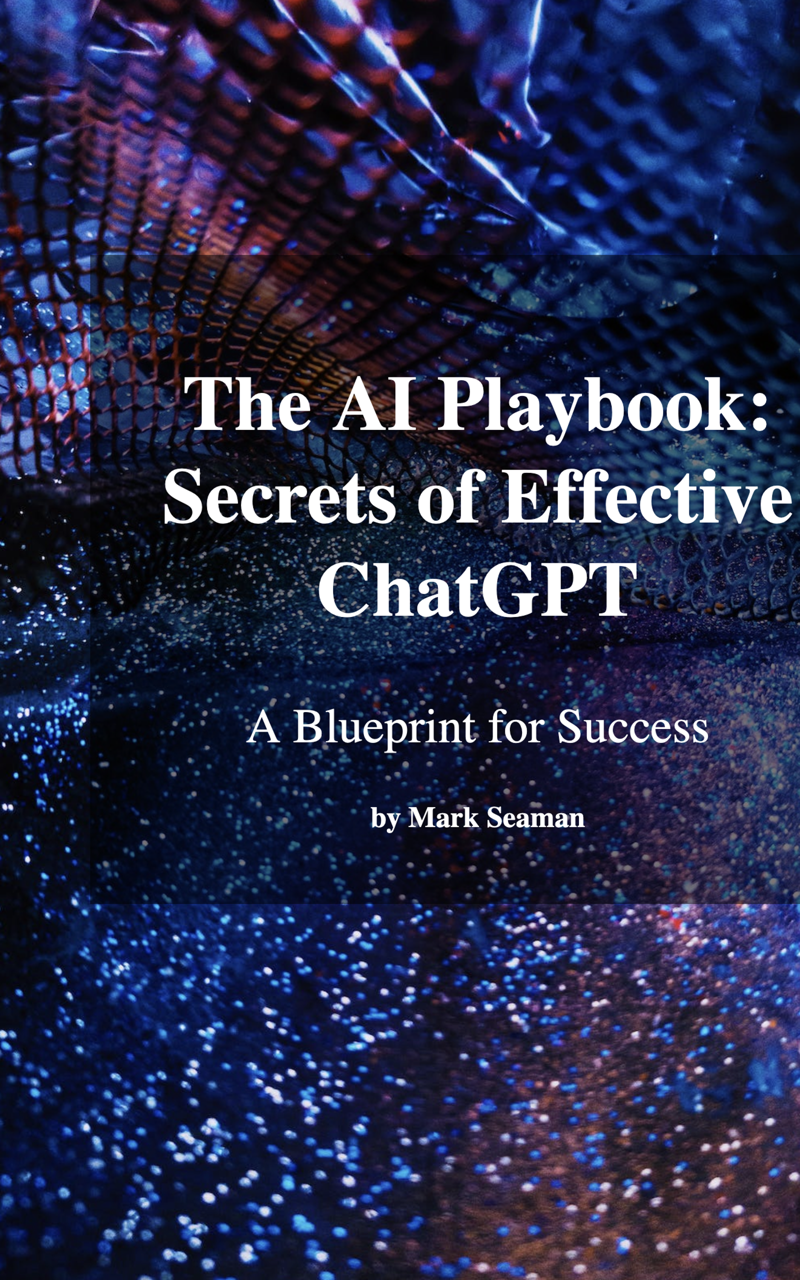
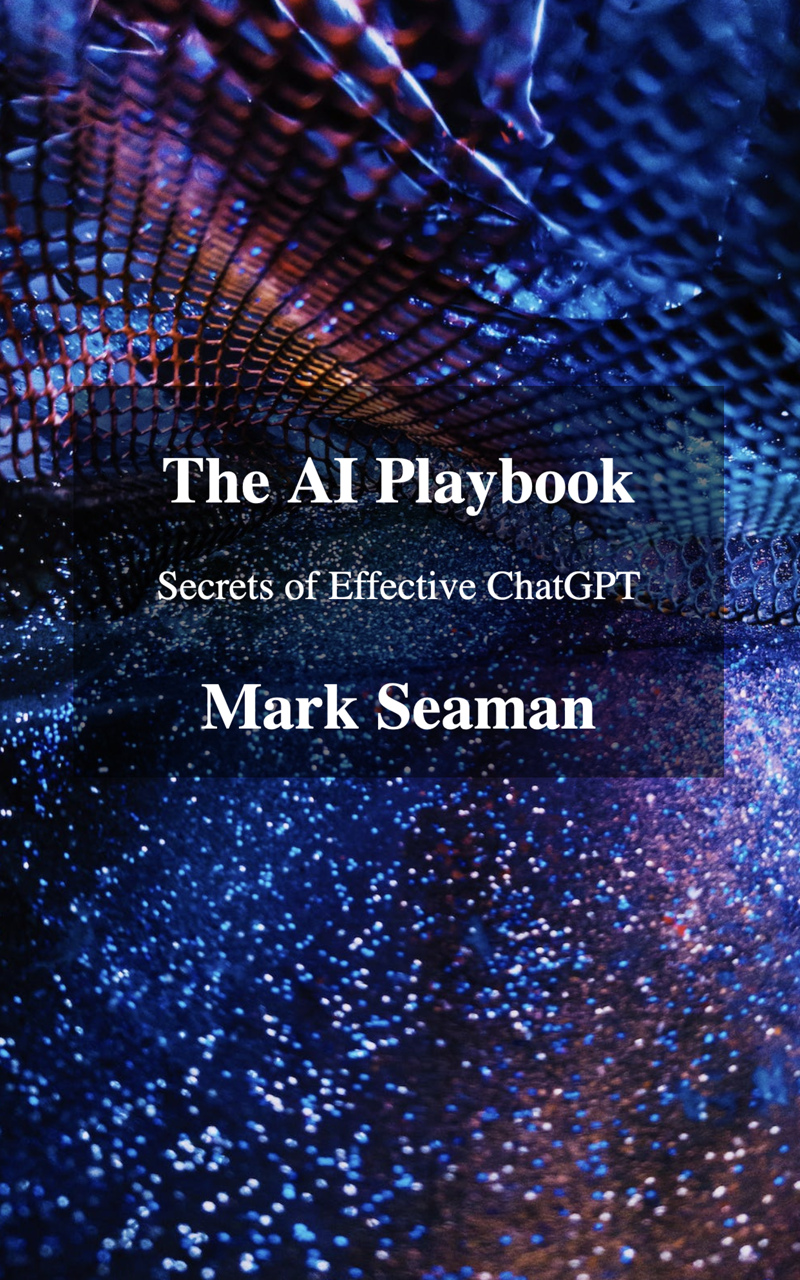
AI Publication

diff --git a/static/images/Shrinking-World-Pubs/ai/Cover.html b/static/images/Shrinking-World-Pubs/ai/Cover.html
@@ -19,10 +19,10 @@
 
         .book-overlay {
             position: absolute;
-            top: 20%;
+            top: 30%;
             left: 10%;
             width: 80%;
-            height: 50%;
+            height: 30%;
             background-color: rgba(0, 0, 0, 0.5);
             display: flex;
             flex-direction: column;
@@ -38,7 +38,7 @@
         }
 
         .book-author {
-            font-size: 1.5rem;
+            font-size: 4rem;
             color: white;
             margin-bottom: 0.5rem;
         }
@@ -53,11 +53,11 @@
 
 <body>
     <div class="book-cover">
-        <img src="./CoverImage.jpg" alt="The AI Playbook: Secrets of Effective ChatGPT">
+        <img src="./CoverImage.png" alt="The AI Playbook: Secrets of Effective ChatGPT">
         <div class="book-overlay">
-            <h1 class="book-title">The AI Playbook: Secrets of Effective ChatGPT</h1>
-            <p class="book-tagline">A Blueprint for Success</p>
-            <h2 class="book-author">by Mark Seaman</h2>
+            <h1 class="book-title">The AI Playbook</h1>
+            <p class="book-tagline">Secrets of Effective ChatGPT</p>
+            <h2 class="book-author">Mark Seaman</h2>
         </div>
     </div>
 </body>

diff --git a/writer/templates/pub_script/document.html b/writer/templates/pub_script/document.html
@@ -126,7 +126,7 @@
         <div>
             <!-- <a class="btn btn-primary" href="/writer/{{ pub }}/{{ chapter }}/New.md/">New Revision</a> -->
             <a class="btn btn-primary" href="/writer/{{ pub }}/{{ chapter }}/{{ doc }}/">Edit Files</a>
-            <a class="btn btn-primary" href="/writer/{{ pub }}/{{ chapter }}/{{ doc }}/">Publish Chapter</a>
+            <a class="btn btn-primary" href="/writer/{{ pub }}/{{ chapter }}/{{ doc }}/publish">Publish Chapter</a>
         </div>
 
         {% if human %}

diff --git a/writer/cover.py b/writer/cover.py
@@ -10,17 +10,15 @@ from .resize_image import crop_image, save_image
 
 
 def create_book_cover(images):
-    verbose = False
+    verbose = True
     images.mkdir(exist_ok=True)
     assert images.exists()
 
     # Downsample the thumbnails
     cover = images/'Cover.png'
-    if cover.exists():
-        if verbose: 
-            print('cover:', cover)
+    cover1600 = images/'Cover-1600.png'
+    if cover.exists() and not cover1600.exists():
         create_cover_thumbnails(str(cover), verbose)
-        cover1600 = images/'Cover-1600.png'
         assert cover1600.exists()
         return str(cover1600)
 
@@ -41,6 +39,7 @@ def create_book_cover(images):
 def create_cover_thumbnails(path, verbose):
     image = Image.open(path)
     if verbose:
+        print('cover downsample:', path)
         print(f'Image: {path} Size: {image.size[0]}x{image.size[1]}')
         print(f'Shape: 1000x{image.size[1]*1000/image.size[0]}')
     image = crop_image(image, verbose)

diff --git a/writer/views.py b/writer/views.py
@@ -3,7 +3,7 @@ from django.views.generic import RedirectView, TemplateView
 from django.views.generic.edit import FormView
 
 from .ai import pub_ai
-from .pub_script import (chapter_script, doc_script, doc_view_data, edit_doc_script, project_script, pub_edit, pub_script,
+from .pub_script import (chapter_script, doc_script, doc_view_data, edit_doc_script, project_script, pub_edit, pub_publish, pub_script,
                          pub_url)
 
 
@@ -62,6 +62,12 @@ class DocumentEditView(RedirectView):
 
     def get_redirect_url(self, **kwargs):
         return pub_edit(**kwargs)
+
+
+class DocumentPublishView(RedirectView):
+
+    def get_redirect_url(self, **kwargs):
+        return pub_publish(**kwargs)
 
 
 class ApplyAiView(RedirectView):

diff --git a/writer/urls.py b/writer/urls.py
@@ -1,7 +1,7 @@
 from django.urls import path
 
 from writer.views import (ApplyAiView, DocumentAddView,
-                          DocumentEditView, DocumentView)
+                          DocumentEditView, DocumentView, DocumentPublishView)
 
 urlpatterns = [
 
@@ -16,6 +16,7 @@ urlpatterns = [
     path("<str:pub>/<str:chapter>", DocumentView.as_view()),
     path("<str:pub>/<str:chapter>/<str:doc>", DocumentView.as_view()),
     path('<str:pub>/<str:chapter>/<str:doc>/', DocumentEditView.as_view()),
+    path('<str:pub>/<str:chapter>/<str:doc>/publish', DocumentPublishView.as_view()),
     path('<str:pub>/<str:chapter>/<str:doc>/ai', ApplyAiView.as_view()),
 
 ]

diff --git a/writer/pub_script.py b/writer/pub_script.py
@@ -256,6 +256,15 @@ def pub_edit(**kwargs):
     return url
 
 
+def pub_publish(**kwargs):
+    pub = kwargs.get('pub')
+    chapter = kwargs.get('chapter')
+    doc = kwargs.get('doc')
+    publish_script([pub, chapter, doc])
+    url = pub_url(pub, chapter, doc)
+    return url
+
+
 def pub_link(pub, chapter=None):
     if chapter:
         url = f'/writer/{pub}/{chapter}'

diff --git a/writer/tests_views.py b/writer/tests_views.py
@@ -18,7 +18,7 @@ class DocumentViewTest(DjangoTest):
 
     def test_doc_view(self):
         text = self.assertPageText(
-            '/writer/ghost/WritersGuide/Chapter1.md', 290, 310, 'html')
+            '/writer/ghost/WritersGuide/Chapter1.md', 310, 330, 'html')
 
     def test_ai_view(self):
 

diff --git a/publish/publication.py b/publish/publication.py
@@ -98,7 +98,7 @@ def doc_view_context(**kwargs):
 
 
 def get_pub(name):
-    print('get_pub: ', name)
+    # print('get_pub: ', name)
     return Pub.objects.get(name=name)
 
 
